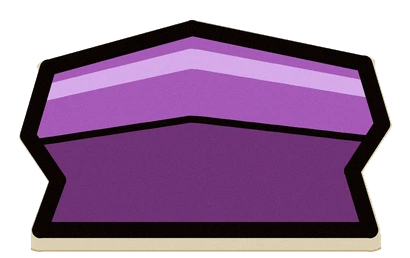
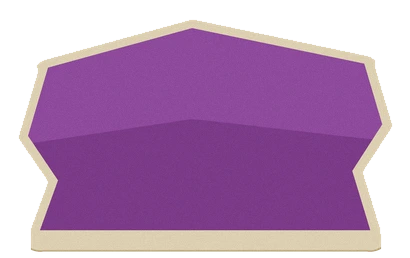
Corner: flat pieces without the ink outline, discs as a stack of chips
The health, sparks, gem and turn board are redrawn flat (shading toned
down, no black ink line, the beige rim kept) and cast a softer shadow.
The disc column is now a CSS stack of casino chips: the hero's disc on
top, his colour on the side with light marks, stretched to fill the
column; thrown chips fade from the top. The discs_1..4 pictures go.

Claude-Session: https://claude.ai/code/session_01KWEJqKg8RAuhCNceXPvBeb

diff --git a/src/style.css b/src/style.css
@@ -274,23 +274,28 @@ i.ico { display: inline-block; font-style: normal; }
   width: calc(var(--bw) * var(--u)); height: calc(var(--bh) * var(--u)); pointer-events: auto;
 }
 
-/* the discs of this turn: a column of cells, one a disc, the first at the bottom; the ones still in hand show the hero's
-   disc (--disc, the room's picture; a puck in the hero's colour without it), the thrown ones go dark from the top down */
+/* the discs of this turn: a stack of casino chips, the first at the bottom, stretched to fill the column; one still in hand
+   shows the hero's disc on top (--disc, the room's picture; his colour without it) over a side in his dark colour with
+   light marks, the thrown ones fade from the top down */
 .discs {
-  --bx: -14; --by: -14; --bw: 106; --bh: 295;
-  display: flex; flex-direction: column-reverse; box-sizing: border-box; padding: calc(14 * var(--u));
-  background: #241a14 content-box; filter: drop-shadow(0 2px 0 rgba(0, 0, 0, 0.5));
+  --bx: 0; --by: 0; --bw: 78; --bh: 267; --e: calc(30 * var(--u)); --mk: color-mix(in srgb, var(--c, #888) 40%, #f4ead8);
+  display: flex; flex-direction: column-reverse; box-sizing: border-box; padding: calc(var(--e) / 2) 0;
+  filter: drop-shadow(0 2px 0 rgba(0, 0, 0, 0.35));
 }
-.discs i {
-  flex: 1; margin: calc(7 * var(--u));
-  background: var(--disc, radial-gradient(closest-side, var(--c) 86%, #120c09 88% 98%, transparent)) center / contain no-repeat;
+.discs i { position: relative; flex: 1; }
+/* the side: its foot curves round the top of the chip below and throws a thin shadow on it */
+.discs i::before {
+  content: ''; position: absolute; inset: 0 0 calc(var(--e) / -2);
+  border-radius: 0 0 50% 50% / 0 0 calc(var(--e) / 2) calc(var(--e) / 2);
+  background: linear-gradient(90deg, transparent 9%, var(--mk) 9% 17%, transparent 17% 43%, var(--mk) 43% 57%, transparent 57% 83%, var(--mk) 83% 91%, transparent 91%) color-mix(in srgb, var(--c, #888) 62%, #000);
+  box-shadow: 0 calc(5 * var(--u)) 0 rgba(0, 0, 0, 0.45);
 }
-.discs i:not(.on) { filter: grayscale(0.9) brightness(0.35); opacity: 0.7; }
-.art-discs_1 .discs { background: center / 100% 100% no-repeat; }
-.art-discs_1 .discs[data-n='1'] { background-image: var(--ui-discs_1); }
-.art-discs_2 .discs[data-n='2'] { background-image: var(--ui-discs_2); }
-.art-discs_3 .discs[data-n='3'] { background-image: var(--ui-discs_3); }
-.art-discs_4 .discs[data-n='4'] { background-image: var(--ui-discs_4); }
+/* the top, the hero's disc seen from the side: only the top chip's shows whole */
+.discs i::after {
+  content: ''; position: absolute; left: 0; right: 0; top: calc(var(--e) / -2); height: var(--e); border-radius: 50%;
+  background: var(--disc, none) center / 100% 100% no-repeat var(--c, #888);
+}
+.discs i:not(.on) { opacity: 0.3; filter: grayscale(1) brightness(0.5); }
 
 .hpbar { --bx: 79; --by: -14; --bw: 458; --bh: 230; }
 .track { position: absolute; inset: 6%; background: #241a14; clip-path: var(--cut-bar); }
@@ -762,17 +767,17 @@ i.ico { display: inline-block; font-style: normal; }
 /* ---------- painted cardboard plates and icons (public/assets/ui): each takes over from the drawn one once its picture loads */
 /* the turn button (turn, drawn by art/ui/draw_corner.py): mustard board standing on the block, its top rising to the right,
    its bottom following the health's dip; the words tilted along its top */
-.art-turn .turn-btn { filter: drop-shadow(0 4px 0 rgba(0, 0, 0, 0.5)); }
+.art-turn .turn-btn { filter: drop-shadow(0 2px 0 rgba(0, 0, 0, 0.35)); }
 .art-turn .tb-plate { clip-path: none; background: var(--ui-turn) center / 100% 100% no-repeat; transition: filter 0.2s; }
 .art-turn .tb-plate::before, .art-turn .tb-plate::after { display: none; }
 .art-turn .turn-btn b, .art-turn .turn-btn small { transform: rotate(-7deg); }
 .art-turn .turn-btn.idle .tb-plate { filter: saturate(0.45) brightness(0.7); }
 .art-turn .turn-btn.idle b { color: #1c120a; }
-.art-turn .turn-btn.lit { filter: drop-shadow(0 4px 0 rgba(0, 0, 0, 0.5)) drop-shadow(0 0 16px rgba(255, 200, 80, 0.8)); animation: lit-art 1.6s ease-in-out infinite; }
+.art-turn .turn-btn.lit { filter: drop-shadow(0 2px 0 rgba(0, 0, 0, 0.35)) drop-shadow(0 0 16px rgba(255, 200, 80, 0.8)); animation: lit-art 1.6s ease-in-out infinite; }
 .art-turn .turn-btn.confirm .tb-plate { filter: hue-rotate(-16deg) saturate(1.5); }
 .art-turn .turn-btn.wait .tb-plate { filter: grayscale(0.75) brightness(0.62); }
 .art-turn .turn-btn.enemy .tb-plate { filter: hue-rotate(-45deg) saturate(1.9) brightness(0.9); }
-@keyframes lit-art { 50% { filter: drop-shadow(0 4px 0 rgba(0, 0, 0, 0.5)) drop-shadow(0 0 28px rgba(255, 210, 90, 1)); } }
+@keyframes lit-art { 50% { filter: drop-shadow(0 2px 0 rgba(0, 0, 0, 0.35)) drop-shadow(0 0 28px rgba(255, 210, 90, 1)); } }
 @media (prefers-reduced-motion: reduce) { .art-turn .turn-btn.lit { animation: none; } }
 /* a phone held upright keeps the glow still */
 @media (orientation: portrait) and (max-width: 700px) { .art-turn .turn-btn.lit { animation: none; } }
@@ -784,13 +789,13 @@ i.ico { display: inline-block; font-style: normal; }
 .art-btn_dark .ore-chip { clip-path: none; background: var(--ui-btn_dark) center / 100% 100% no-repeat; padding: 4px 18px 4px 10px; filter: drop-shadow(0 3px 0 rgba(0, 0, 0, 0.5)); }
 
 /* the gem (gem, drawn by art/ui/draw_corner.py with the health and the sparks): a notch on its left for the health's point */
-.art-gem .ability { filter: drop-shadow(0 4px 0 rgba(0, 0, 0, 0.5)); background: var(--ui-gem) center / 100% 100% no-repeat; }
+.art-gem .ability { filter: drop-shadow(0 2px 0 rgba(0, 0, 0, 0.35)); background: var(--ui-gem) center / 100% 100% no-repeat; }
 .art-gem .ability::before, .art-gem .ability::after { display: none; }
-.art-gem .ability:disabled { filter: drop-shadow(0 4px 0 rgba(0, 0, 0, 0.5)) saturate(0.4) brightness(0.65); }
-.art-gem .ability.full { filter: drop-shadow(0 4px 0 rgba(0, 0, 0, 0.5)) drop-shadow(0 0 12px #c9a8ff); }
+.art-gem .ability:disabled { filter: drop-shadow(0 2px 0 rgba(0, 0, 0, 0.35)) saturate(0.4) brightness(0.65); }
+.art-gem .ability.full { filter: drop-shadow(0 2px 0 rgba(0, 0, 0, 0.35)) drop-shadow(0 0 12px #c9a8ff); }
 .art-gem .ability.full:not(.on) { animation-name: ab-full-art; }
-@keyframes ab-full-art { 50% { filter: drop-shadow(0 4px 0 rgba(0, 0, 0, 0.5)) drop-shadow(0 0 26px #e2d4ff) brightness(1.22); } }
-.art-gem .ability.on { filter: drop-shadow(0 4px 0 rgba(0, 0, 0, 0.5)) drop-shadow(0 0 14px var(--ab)); }
+@keyframes ab-full-art { 50% { filter: drop-shadow(0 2px 0 rgba(0, 0, 0, 0.35)) drop-shadow(0 0 26px #e2d4ff) brightness(1.22); } }
+.art-gem .ability.on { filter: drop-shadow(0 2px 0 rgba(0, 0, 0, 0.35)) drop-shadow(0 0 14px var(--ab)); }
 .art-gem .ability b { padding: 2px 5px; background: rgba(18, 12, 9, 0.6); }
 /* the ability's own picture fills the gem's middle face instead of its name */
 .ability .ab-ico { position: absolute; left: 44.4%; top: 33.4%; width: 32%; height: 33.2%; z-index: 1; pointer-events: none; }
@@ -845,22 +850,22 @@ img.art { display: block; width: 100%; height: 100%; object-fit: contain; pointe
 
 /* the health and the sparks as die-cut cardboard (art/ui/draw_corner.py draws them from Vladislav's sketch) */
 /* health: a bow tie with a dip on top, a waist below and a point on the right going into the gem (hp_empty, hp_full,
-   hp_shield: one shape, stretched whole). The red runs from x 36 to 879 of 916, so .track is that span and the fills stay
+   hp_shield: one shape, stretched whole). The red runs from x 28 to 888 of 916, so .track is that span and the fills stay
    plain percentages of it; each fill shows the same picture at the bar's full size (cqw/cqh of the track), shifted by where
    the fill starts (--x, set with it) */
-.art-hp_empty.art-hp_full .corner .hpbar { background: var(--ui-hp_empty) center / 100% 100% no-repeat; filter: drop-shadow(0 3px 0 rgba(0, 0, 0, 0.5)); }
-.art-hp_empty.art-hp_full .corner .hpbar .track { inset: 0 4.039% 0 3.930%; clip-path: none; background: none; container-type: size; }
+.art-hp_empty.art-hp_full .corner .hpbar { background: var(--ui-hp_empty) center / 100% 100% no-repeat; filter: drop-shadow(0 2px 0 rgba(0, 0, 0, 0.35)); }
+.art-hp_empty.art-hp_full .corner .hpbar .track { inset: 0 3.057% 0 3.057%; clip-path: none; background: none; container-type: size; }
 .art-hp_empty.art-hp_full .corner .hpbar.shielded .track { box-shadow: none; }
-.art-hp_empty.art-hp_full .corner .track > * { background: var(--ui-hp_full) calc(-4.270cqw - var(--x, 0) * 1cqw) 0 / 108.66cqw 100cqh no-repeat; }
+.art-hp_empty.art-hp_full .corner .track > * { background: var(--ui-hp_full) calc(-3.256cqw - var(--x, 0) * 1cqw) 0 / 106.51cqw 100cqh no-repeat; }
 .art-hp_empty.art-hp_full .corner .track s { background-image: var(--ui-hp_shield); }
 .art-hp_empty.art-hp_full .corner .track s.risk, .art-hp_empty.art-hp_full .corner .track em { filter: brightness(1.7) saturate(0.5); }
 /* the sparks: three pieces of one crystal, each its own picture in its own box */
-.art-spk_1_on .spk i { clip-path: none; background: center / 100% 100% no-repeat; filter: drop-shadow(0 2px 0 rgba(0, 0, 0, 0.5)); }
+.art-spk_1_on .spk i { clip-path: none; background: center / 100% 100% no-repeat; filter: drop-shadow(0 2px 0 rgba(0, 0, 0, 0.35)); }
 .art-spk_1_off .spk i:nth-child(1) { background-image: var(--ui-spk_1_off); }
 .art-spk_2_off .spk i:nth-child(2) { background-image: var(--ui-spk_2_off); }
 .art-spk_1_on .spk i.on:nth-child(1) { background-image: var(--ui-spk_1_on); }
 .art-spk_2_on .spk i.on:nth-child(2) { background-image: var(--ui-spk_2_on); }
-.art-spk_1_on .spk.full i { filter: drop-shadow(0 2px 0 rgba(0, 0, 0, 0.5)) drop-shadow(0 0 6px #c9a8ff); }
+.art-spk_1_on .spk.full i { filter: drop-shadow(0 2px 0 rgba(0, 0, 0, 0.35)) drop-shadow(0 0 6px #c9a8ff); }
 
 /* the menus stand on a painted disco dungeon instead of the dimmed room */
 .art-menu_bg .overlay.solid { background: linear-gradient(rgba(10, 7, 5, 0.2), rgba(10, 7, 5, 0.2)), var(--ui-menu_bg) center / cover no-repeat; }

diff --git a/src/ui.ts b/src/ui.ts
@@ -462,12 +462,11 @@ export class Hud {
     if (h.fire > 0) st.push({ k: 'fire', n: 2, t: 'Горит: в ход врагов потеряет 2' });
     $('fStatus').innerHTML = statusHtml(st);
 
-    // the discs of this turn as a column of cells, the first at the bottom: the ones still in hand show the hero's disc, the
-    // thrown ones (from the top down) go dark
+    // the discs of this turn as a stack of chips, the first at the bottom: the ones still in hand show the hero's disc, the
+    // thrown ones (from the top down) fade
     const per = g.handOf(h), out = S.phase === 'throw' && g.ended(h) ? per : per - h.hand, discPic = envArt.get('disc_' + h.def.key);
     const discs = $('fDiscs');
     discs.innerHTML = Array.from({ length: per }, (_, k) => `<i class="${k < per - out ? 'on' : ''}"></i>`).join('');
-    discs.dataset.n = String(per);
     if (discPic) discs.style.setProperty('--disc', `url("${discPic.src}")`);
     else discs.style.removeProperty('--disc');
     discs.title = `Диски: ${h.hand} из ${per} за ход`;

diff --git a/art/ui/draw_corner.py b/art/ui/draw_corner.py
@@ -1,30 +1,32 @@
-"""Draws the fight corner's pieces as die-cut cardboard stickers (beige rim, black ink, flat print), after Vladislav's sketch
-of 2026-10-18: next to the portrait a column of disc cells (split by how many discs the hero throws), then a big health
-bar like a bow tie (a dip on top, a waist below, its right end a point), the sparks as a crystal strip under it split in
-two by a crack, and the ability gem standing the full height on the right with a notch the health bar's point goes into
-and a foot under the bar's end: the gem is the third spark, so the strip's second crack is the gem's edge. Over the bar's
-right half and the gem the turn button, its bottom following the bar's top.
+"""Draws the fight corner's pieces as die-cut cardboard stickers (a beige rim, flat print, no ink line: Vladislav had the
+outline taken off and the shading flattened), after his sketch of 2026-10-18: next to the portrait a column for the stack
+of discs (drawn by style.css as chips), then a big health bar like a bow tie (a dip on top, a waist below, its right end a
+point), the sparks as a crystal strip under it split in two by a crack, and the ability gem standing the full height on
+the right with a notch the health bar's point goes into and a foot under the bar's end: the gem is the third spark, so the
+strip's second crack is the gem's edge. Over the bar's right half and the gem the turn button, its bottom following the
+bar's top.
 
 All pieces share one plan: the block is 713 x 267 units (x right, y down; the column starts at x 0; the turn button stands
-above it, at negative y). Pieces sit apart by a
-cut of 9..15 units; each sticker's rim only reaches halfway across a cut, so two pieces never paint over each other's ink.
-Run from the repo root:
+above it, at negative y). Pieces sit apart by a cut of 9..15 units; each sticker's rim only reaches halfway across a cut,
+so two pieces never paint over each other. Run from the repo root:
 
-    python3 art/ui/draw_corner.py
+    python3 art/ui/draw_corner.py [folder] [rim]
 
-It writes public/assets/ui/discs_1..4, hp_empty|hp_full|hp_shield, spk_1..2_on|off, gem and turn (.webp) and prints the
-numbers style.css needs: each picture's box in units, the red span of the health bar, and the outlines of the gem and the
-button as clip-path polygons, for where a tap lands.
+It writes hp_empty|hp_full|hp_shield, spk_1..2_on|off, gem and turn (.webp) to public/assets/ui/ (or the folder; rim is
+the rim's width in pixels, 0 for none) and prints the numbers style.css needs: each picture's box in units, the red span
+of the health bar, and the outlines of the gem and the button as clip-path polygons, for where a tap lands.
 """
+import sys
+
 from PIL import Image, ImageDraw
 import numpy as np
 
-OUT = 'public/assets/ui/'
+OUT = (sys.argv[1].rstrip('/') + '/') if len(sys.argv) > 1 else 'public/assets/ui/'
 U = 2.0  # pixels per unit
 SS = 4  # supersampling
 M = 14  # margin round each picture, units
-INK, RIM = 8, 12  # pixels at 1x: ink line half outside the outline, rim past it
-RIM_COL, RIM_EDGE, INK_COL = (220, 207, 177), (176, 158, 118), (10, 4, 2)
+RIM = float(sys.argv[2]) if len(sys.argv) > 2 else 20  # the beige rim round the print, pixels at 1x
+RIM_COL, RIM_EDGE = (220, 207, 177), (176, 158, 118)
 BW, BH = 713, 267
 
 DISC = [(0, 0), (78, 0), (78, 267), (0, 267)]
@@ -70,6 +72,7 @@ for k in range(2):
 foot = crack(CRACKS[1], CUT)
 GEM = BODY[:4] + foot[::-1] + [q for q in SPK_T if q[0] > foot[0][0]][:-1] + [(511, 202), (523, 196)] + BODY[5:]
 
+# the disc column has no picture (style.css stacks chips in it), but its cut still bounds the others' rims
 PIECES = {'discs': DISC, 'hp': HP, 'spk_1': SPK[0], 'spk_2': SPK[1], 'gem': GEM, 'turn': TURN}
 
 
@@ -127,9 +130,9 @@ def box(name):
     return x0, y0, x1 - x0, y1 - y0
 
 
-def sticker(name, paint, lines=()):
-    """the piece's rim (only on its own side of each cut), the print inside, then the ink; paint(d, px) prints the inside
-    with px mapping plan units to pixels; lines are ink strokes inside it (plan units, width in pixels at 1x)"""
+def sticker(name, paint):
+    """the piece's rim (only on its own side of each cut), then the print inside; paint(d, px) prints the inside with px
+    mapping plan units to pixels"""
     x0, y0, w, h = box(name)
     W, H = round(w * U * SS), round(h * U * SS)
 
@@ -137,22 +140,19 @@ def sticker(name, paint, lines=()):
         return ((q[0] - x0) * U * SS, (q[1] - y0) * U * SS)
 
     p = [px(q) for q in PIECES[name]]
-    rim = Image.new('RGBA', (W, H), (0, 0, 0, 0))
-    d = ImageDraw.Draw(rim)
-    outline(d, p, 2 * (INK + RIM) * SS + 3 * SS, RIM_EDGE + (255,))
-    outline(d, p, 2 * (INK + RIM) * SS, RIM_COL + (255,))
-    d.polygon(p, fill=RIM_COL + (255,))
     img = Image.new('RGBA', (W, H), (0, 0, 0, 0))
-    img.paste(rim, (0, 0), own_mask(list(PIECES).index(name), x0, y0, w, h))
+    if RIM:
+        rim = Image.new('RGBA', (W, H), (0, 0, 0, 0))
+        d = ImageDraw.Draw(rim)
+        outline(d, p, 2 * RIM * SS + 3 * SS, RIM_EDGE + (255,))
+        outline(d, p, 2 * RIM * SS, RIM_COL + (255,))
+        d.polygon(p, fill=RIM_COL + (255,))
+        img.paste(rim, (0, 0), own_mask(list(PIECES).index(name), x0, y0, w, h))
     inside = Image.new('RGBA', (W, H), (0, 0, 0, 0))
-    d = ImageDraw.Draw(inside)
-    paint(d, px)
-    for ln, width in lines:
-        d.line([px(q) for q in ln], fill=INK_COL + (255,), width=round(width * SS), joint='curve')
+    paint(ImageDraw.Draw(inside), px)
     mask = Image.new('L', (W, H), 0)
     ImageDraw.Draw(mask).polygon(p, fill=255)
     img.paste(inside, (0, 0), mask)
-    outline(ImageDraw.Draw(img), p, 2 * INK * SS, INK_COL + (255,))
     return img.resize((W // SS, H // SS), Image.LANCZOS)
 
 
@@ -166,20 +166,12 @@ def save(img, key, seed):
 
 css = {}
 
-# ---------- the disc column: one cell per disc, cut by ink lines ----------
-for n in range(1, 5):
-    def paint(d, px):
-        d.rectangle([px((-M, -M)), px((BW, BH + M))], fill=(46, 36, 28, 255))
-    cuts = [([(0, BH * k / n), (78, BH * k / n)], 1.6 * INK) for k in range(1, n)]
-    save(sticker('discs', paint, cuts), f'discs_{n}', 20 + n)
-css['discs'] = box('discs')
-
 # ---------- health: one shape in three prints ----------
-band = [(x, y - 40) for x, y in HP[:4]] + [(x, y + 26) for x, y in HP[:4]][::-1]
+band = [(x, y - 40) for x, y in HP[:4]] + [(x, y + 22) for x, y in HP[:4]][::-1]
 for key, col in [('hp_empty', (46, 36, 28)), ('hp_full', (200, 45, 59)), ('hp_shield', (119, 172, 211))]:
     def paint(d, px, col=col):
         d.rectangle([px((-M, -M)), px((BW, BH + M))], fill=col + (255,))
-        d.polygon([px(q) for q in band], fill=lighter(col, 14) + (255,))
+        d.polygon([px(q) for q in band], fill=lighter(col, 9) + (255,))
     save(sticker('hp', paint), key, 7)
 css['hp'] = box('hp')
 red = np.asarray(Image.open(OUT + 'hp_full.webp').convert('RGB')).astype(int)
@@ -187,45 +179,37 @@ xs = np.where(((red[..., 0] > 170) & (red[..., 1] < 90)).any(axis=0))[0]
 r0, r1 = xs.min(), xs.max() + 1
 HW = red.shape[1]
 
-# ---------- sparks: one crystal in two pieces, its ridge a bit above the middle, a shine along the top ----------
+# ---------- sparks: one crystal in two pieces, its upper half a shade lighter ----------
 ridge = [at(x, 0.45) for x in range(80, 530, 4)]
 upper = [(80, 150)] + [(x, edge_y(SPK_T, x) - 20) for x, _ in SPK_T] + [(530, 150)] + ridge[::-1]
-shine = [at(x, 0.1) for x in range(96, 500, 4)] + [at(x, 0.2) for x in range(96, 500, 4)][::-1]
 COLS = {
-    'on': dict(base=(112, 50, 118), up=(166, 89, 184), shine=(214, 170, 232)),
-    'off': dict(base=(52, 46, 66), up=(71, 62, 88), shine=(98, 90, 118)),
+    'on': dict(base=(124, 58, 136), up=(142, 74, 156)),
+    'off': dict(base=(54, 48, 68), up=(62, 55, 77)),
 }
 for k in range(2):
     for state, c in COLS.items():
         def paint(d, px, c=c):
             d.rectangle([px((-M, -M)), px((BW, BH + M))], fill=c['base'] + (255,))
             d.polygon([px(q) for q in upper], fill=c['up'] + (255,))
-            d.polygon([px(q) for q in shine], fill=c['shine'] + (255,))
-        save(sticker(f'spk_{k + 1}', paint, [(ridge, 0.9 * INK)]), f'spk_{k + 1}_{state}', 11 + k)
+        save(sticker(f'spk_{k + 1}', paint), f'spk_{k + 1}_{state}', 11 + k)
     css[f'spk_{k + 1}'] = box(f'spk_{k + 1}')
 
-# ---------- the gem: facets round a flat middle face of its body, lit from the top left; the foot one dark facet ----------
+# ---------- the gem: facets round a flat middle face of its body, a shade apart, lit from the top left; the foot one facet ----------
 cx = sum(x for x, _ in BODY) / len(BODY) + 12
 cy = BH / 2
 inner = [(cx + (x - cx) * 0.5, cy + (y - cy) * 0.52) for x, y in BODY]
-SHADES = [(196, 128, 214), (166, 89, 184), (92, 40, 98), (70, 30, 76), (112, 50, 118), (140, 70, 150)]
+SHADES = [(154, 86, 170), (142, 74, 158), (112, 50, 126), (104, 46, 118), (120, 56, 134), (134, 66, 150)]
 
 
 def paint_gem(d, px):
-    d.rectangle([px((-M, -M)), px((BW + M, BH + M))], fill=(86, 36, 92, 255))
+    d.rectangle([px((-M, -M)), px((BW + M, BH + M))], fill=(108, 48, 122, 255))
     for i in range(len(BODY)):
         j = (i + 1) % len(BODY)
         d.polygon([px(BODY[i]), px(BODY[j]), px(inner[j]), px(inner[i])], fill=SHADES[i] + (255,))
-    d.polygon([px(q) for q in inner], fill=(132, 64, 146, 255))
-    d.polygon([px(q) for q in [inner[0], inner[1], (inner[1][0] - 20, inner[1][1] + 26), (inner[0][0] + 6, inner[0][1] + 26)]],
-              fill=(160, 96, 176, 255))
-    # a lighter band along the foot's top, like the shine on the sparks
-    d.polygon([px(q) for q in [(foot[0][0] - 10, edge_y(SPK_T, foot[0][0]) - 10), (523, 190), (514, 230), (foot[0][0], 222)]],
-              fill=(120, 56, 128, 255))
+    d.polygon([px(q) for q in inner], fill=(130, 62, 146, 255))
 
 
-facets = [([BODY[i], inner[i]], 0.6 * INK) for i in range(len(BODY))] + [(inner + inner[:1], 0.6 * INK), ([BODY[4], BODY[5]], 0.6 * INK)]
-save(sticker('gem', paint_gem, facets), 'gem', 31)
+save(sticker('gem', paint_gem), 'gem', 31)
 css['gem'] = box('gem')
 
 # ---------- the turn button: mustard board with a lighter band along its top ----------
@@ -235,7 +219,7 @@ turn_band = [(250, -120), (520, -150), (520, -112), (262, -78)]
 
 def paint_turn(d, px):
     d.rectangle([px((150, -160)), px((700, 40))], fill=MUSTARD + (255,))
-    d.polygon([px(q) for q in turn_band], fill=lighter(MUSTARD, 18) + (255,))
+    d.polygon([px(q) for q in turn_band], fill=lighter(MUSTARD, 10) + (255,))
 
 
 save(sticker('turn', paint_turn), 'turn', 41)

diff --git a/README.md b/README.md
@@ -131,7 +131,7 @@ npm run build    # сборка в dist/
 
 `<этаж>`: `prison`, `ice`, `forge` (поле `art` у биома в `src/data.ts`). Шипы-ловушки рисуются кодом: плоская плита картонкой при повороте камеры смотрится ромбом. Надписи на стенах пишутся белым мелом рукописными шрифтами Amatic SC, Caveat и Neucha, английские и русские слова вперемешку в `WALL_WORDS` в `src/data.ts` (`all` на всех этажах плюс свои у каждого этажа). Надписи и рисунки мелом раскладываются один раз на комнату, не больше четырёх и без повторов в одной комнате, разного размера и наклона (рисунки иногда отзеркалены), в обход факелов и знамён. Промты рисунков в `CartoonGen/prompts/env/doodles.py`.
 
-Интерфейс в стиле «картон» (вырубленные жетоны настолки с бежевой кромкой) берётся из раздела `ui` манифеста, файлы в `public/assets/ui/`. Пока картинка не загрузилась, кнопки и значки рисуются кодом в том же духе. Загруженная картинка доступна стилям как `var(--ui-<ключ>)` под классом `art-<ключ>` на `<html>`, а в разметке как `<i data-art="<ключ>">`. Угол героя после портрета (столбик дисков `discs_*`, здоровье `hp_*`, искры `spk_*`, кристалл способности `gem` и кнопка хода `turn` над ними) нарисован кодом по схеме Владислава: `python3 art/ui/draw_corner.py` перерисовывает его и печатает числа, которые нужны `style.css`. Значки трофеев (`art_<ключ трофея>`) и сцены `loot_king`/`loot_lich` нарисованы на FLUX (промты в `CartoonGen/prompts/artifacts/`); `python3 art/ui/cut_arts.py <папка с рендерами> <куда>` вырезает у значков белый фон, который касается края картинки, и собирает лист вариантов, а с `--pick ключ=номер` ставит выбранные варианты в игру. Третья тройка героев (фигурки `kid`, `bum`, `genius`, их шайбы `disc_*`, значки способностей `ab_*`, петарда `petard`, статусы `ico_gas`, `ico_slow` и `ico_petard`) нарисована FLUX, как и остальные герои; промты лежат в файлах проекта, в `discodungeon/heroes3/prompts/`. Петарда стоит по центру картинки 120×200, а искра у фитиля рисуется игрой в точке 75% ширины и 5% высоты от верха (`drawBomb` в `src/draw/scene.ts`).
+Интерфейс в стиле «картон» (вырубленные жетоны настолки с бежевой кромкой) берётся из раздела `ui` манифеста, файлы в `public/assets/ui/`. Пока картинка не загрузилась, кнопки и значки рисуются кодом в том же духе. Загруженная картинка доступна стилям как `var(--ui-<ключ>)` под классом `art-<ключ>` на `<html>`, а в разметке как `<i data-art="<ключ>">`. Угол героя после портрета (здоровье `hp_*`, искры `spk_*`, кристалл способности `gem` и кнопка хода `turn` над ними) нарисован кодом по схеме Владислава, плоско и без чёрной обводки: `python3 art/ui/draw_corner.py` перерисовывает его и печатает числа, которые нужны `style.css` (`python3 art/ui/draw_corner.py <папка> 0` рисует те же куски без бежевой кромки). Диски рядом с портретом своей картинки не имеют: это стопка фишек в CSS, сверху шайба героя `disc_*`, сбоку его цвет. Значки трофеев (`art_<ключ трофея>`) и сцены `loot_king`/`loot_lich` нарисованы на FLUX (промты в `CartoonGen/prompts/artifacts/`); `python3 art/ui/cut_arts.py <папка с рендерами> <куда>` вырезает у значков белый фон, который касается края картинки, и собирает лист вариантов, а с `--pick ключ=номер` ставит выбранные варианты в игру. Третья тройка героев (фигурки `kid`, `bum`, `genius`, их шайбы `disc_*`, значки способностей `ab_*`, петарда `petard`, статусы `ico_gas`, `ico_slow` и `ico_petard`) нарисована FLUX, как и остальные герои; промты лежат в файлах проекта, в `discodungeon/heroes3/prompts/`. Петарда стоит по центру картинки 120×200, а искра у фитиля рисуется игрой в точке 75% ширины и 5% высоты от верха (`drawBomb` в `src/draw/scene.ts`).
 
 Надписи интерфейса набраны Oswald (заголовки, кнопки, числа), а описания, подсказки и подписи написаны от руки шрифтом Caveat, он лежит в `src/fonts/` (лицензия OFL там же) и увеличен на 40%, чтобы стоять в тех же размерах, что Oswald. Герои и враги на поле подкрашены светом этажа (поле `light` у биома): тёплым от факелов в тюрьме, холодным в склепе, жарким в кузне.
 
@@ -146,8 +146,7 @@ npm run build    # сборка в dist/
 | `camp_rest`, `camp_mend`, `camp_dig` | сосиска на палке, бинт, кирка на руде | выборы в окне костра |
 | `m_<что>` | кнопки меню, «Назад», «Закрыть», хозяин комнаты, ссылка | наклейкой на левом краю кнопки |
 | `logo`, `lose` | диско-шар на цепи, надгробие | над названием в меню, на экране поражения |
-| `discs_1` … `discs_4` | столбик клеток для дисков (одна, две, три или четыре клетки), тёмный внутри | рядом с портретом, по числу дисков за ход; в клетках шайбы героя, первая снизу, брошенные темнеют сверху вниз |
-| `hp_empty`, `hp_full`, `hp_shield` | большая полоса-«бабочка» по схеме Владислава: сверху провал, снизу талия, правый конец остриём входит в выемку кристалла; пустая, красная и голубая одной формы, 916×460 | здоровье героя в углу: снизу пустая, поверх красная по доле здоровья и голубая по доле щита; красное идёт от x 36 до 879 из 916, растягивается только целиком |
+| `hp_empty`, `hp_full`, `hp_shield` | большая полоса-«бабочка» по схеме Владислава: сверху провал, снизу талия, правый конец остриём входит в выемку кристалла; пустая, красная и голубая одной формы, 916×460 | здоровье героя в углу: снизу пустая, поверх красная по доле здоровья и голубая по доле щита; красное идёт от x 28 до 888 из 916, растягивается только целиком |
 | `spk_1_on` … `spk_2_off` | полоса-кристалл под здоровьем, расколотая трещиной на два куска, горящий и потухший у каждого | две искры; третья искра это сам кристалл способности, он загорается, когда искр хватает |
 | `gem` | кристалл способности во всю высоту блока, с остриём вправо, выемкой слева под острие здоровья и «ногой» под концом полосы здоровья до трещины искр | кнопка способности и третья искра; значок `ab_*` в средней грани, светится, когда искры полные |
 | `ab_<герой>` | однотонный кремовый значок способности: щит, летящая шайба, пламя, молния, куриная ножка, веер карт | в кристалле способности вместо её названия |
